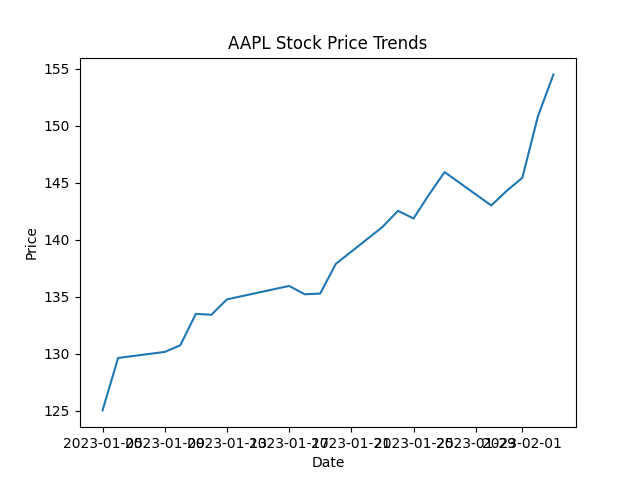
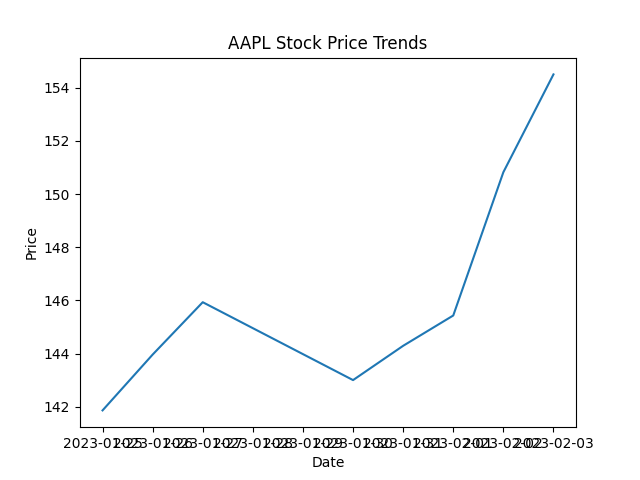
minimal style changes

diff --git a/Django2/personalWeb/base/templates/base/home.html b/Django2/personalWeb/base/templates/base/home.html
@@ -4,16 +4,18 @@
 
 {% block content %}
 
+<br>
 
 <div class="container">
     <div class="row">
         <h1 class="text-center"> This is the home page </h1>
+        <br>
         <div class="col">
             <img src = "{% static 'base/DiscordIcon.png' %}" style="height: 450px; object-fit: contain">
         </div>
         <div class="col">
             <h3>About me</h3>
-            <p class="text-justify">
+            <p style="text-align: justify">
                 Lorem ipsum dolor sit amet, consectetur adipiscing elit. Sed auctor augue ut nibh dictum, eget fermentum est aliquam. Fusce velit velit, condimentum vel velit eget, auctor suscipit augue. Sed at ante viverra, lobortis risus at, fermentum dolor. Sed id viverra elit, eget malesuada magna. Sed auctor, odio in tempus feugiat, odio nulla aliquet dolor, non facilisis ipsum orci eget magna. Sed non risus vitae mi feugiat commodo. Sed euismod, lorem id fringilla tempus, ante elit suscipit erat, euismod pharetra est elit.
             </p>
         </div>
@@ -34,7 +36,7 @@
 <hr>
 
 <!--- Adding Project Model -->
-
+<br>
 <div class="container">
     <h2 class="text-center">Projects</h2>
     <div class="row">
@@ -45,12 +47,14 @@
                 
             {% endif %}
                 <div class="col-4">
-                    <h2 style="height: 80px"><a href = "{{project.url}}" target ="_blank">{{project.title}}</a></h2>
-                    <a href = "{{project.url}}" target ="_blank" style="height: 350px">
+                    <h3 class="text-center" style="height: 80px;">
+                        <a href = "{{project.url}}" style="text-decoration: none; color: black;">{{project.title}}</a>
+                    </h3>
+                    <a href = "{{project.url}}" style="height: 350px">
                         <img src = "{{project.image.url}}" style="height: 300px; width: 100%; object-fit: contain">
                     </a>
 
-                    <p style="height: 160px">{{project.description}}</p>
+                    <p style="text-align: justify; min-height: 160px;">{{project.description}}</p>
                 </div>
         {% endfor %}
     </div>

diff --git a/Django2/personalWeb/todo/templates/todo/list.html b/Django2/personalWeb/todo/templates/todo/list.html
@@ -6,9 +6,9 @@
 
 <h1 class="text-center">Tasks</h1>
 <div class="container text-center">
-  <ul>
+  <ul style="list-style-type: none;">
   {% for task in tasks %}
-    <li>{{ task.title }} </li> <a href="{% url 'todo:delete_task' task.id %}">Delete</a>
+    <li>{{ task.date }} - {{ task.title }} | <a href="{% url 'todo:delete_task' task.id %}">Delete Task</a></li> 
   {% endfor %}
   </ul>
   <a href="{% url 'todo:create_task' %}">Create Task</a>

diff --git a/Django2/personalWeb/blog/migrations/0003_blogpage_date.py b/Django2/personalWeb/blog/migrations/0003_blogpage_date.py
@@ -1,0 +1,19 @@
+# Generated by Django 4.1.5 on 2023-02-05 04:16
+
+from django.db import migrations, models
+import django.utils.timezone
+
+
+class Migration(migrations.Migration):
+
+    dependencies = [
+        ('blog', '0002_remove_blogpage_date'),
+    ]
+
+    operations = [
+        migrations.AddField(
+            model_name='blogpage',
+            name='date',
+            field=models.DateField(default=django.utils.timezone.now),
+        ),
+    ]

diff --git a/Django2/personalWeb/todo/migrations/0002_task_date.py b/Django2/personalWeb/todo/migrations/0002_task_date.py
@@ -1,0 +1,19 @@
+# Generated by Django 4.1.5 on 2023-02-05 03:15
+
+from django.db import migrations, models
+import django.utils.timezone
+
+
+class Migration(migrations.Migration):
+
+    dependencies = [
+        ('todo', '0001_initial'),
+    ]
+
+    operations = [
+        migrations.AddField(
+            model_name='task',
+            name='date',
+            field=models.DateField(default=django.utils.timezone.now),
+        ),
+    ]

diff --git a/Django2/personalWeb/blog/models.py b/Django2/personalWeb/blog/models.py
@@ -1,9 +1,11 @@
 from django.db import models
+from django.utils import timezone
+
 
 # Create your models here.
 class Blogpage(models.Model):
     title = models.CharField(max_length=100)
-    date = models.DateField()
+    date = models.DateField(default=timezone.now)
     description = models.TextField(max_length=250)
 
     # Functions that displays title on the admin page

diff --git a/Django2/personalWeb/blog/migrations/0002_remove_blogpage_date.py b/Django2/personalWeb/blog/migrations/0002_remove_blogpage_date.py
@@ -1,0 +1,17 @@
+# Generated by Django 4.1.5 on 2023-02-05 03:15
+
+from django.db import migrations
+
+
+class Migration(migrations.Migration):
+
+    dependencies = [
+        ('blog', '0001_initial'),
+    ]
+
+    operations = [
+        migrations.RemoveField(
+            model_name='blogpage',
+            name='date',
+        ),
+    ]

diff --git a/Django2/personalWeb/todo/models.py b/Django2/personalWeb/todo/models.py
@@ -1,8 +1,10 @@
 from django.db import models
+from django.utils import timezone
 
 # Create your models here.
 class Task(models.Model):
     title = models.CharField(max_length=200)
+    date = models.DateField(default=timezone.now)
     completed = models.BooleanField(default=False)
 
     def __str__(self):

diff --git a/Django2/personalWeb/stock/views.py b/Django2/personalWeb/stock/views.py
@@ -42,7 +42,7 @@ def update_stocks(time_period, stocks):
             print(f"Key error: {e}")
             print(data)
 
-update_stocks(30, stocks)
+update_stocks(10, stocks)
 
 import seaborn as sns
 import matplotlib.pyplot as plt
